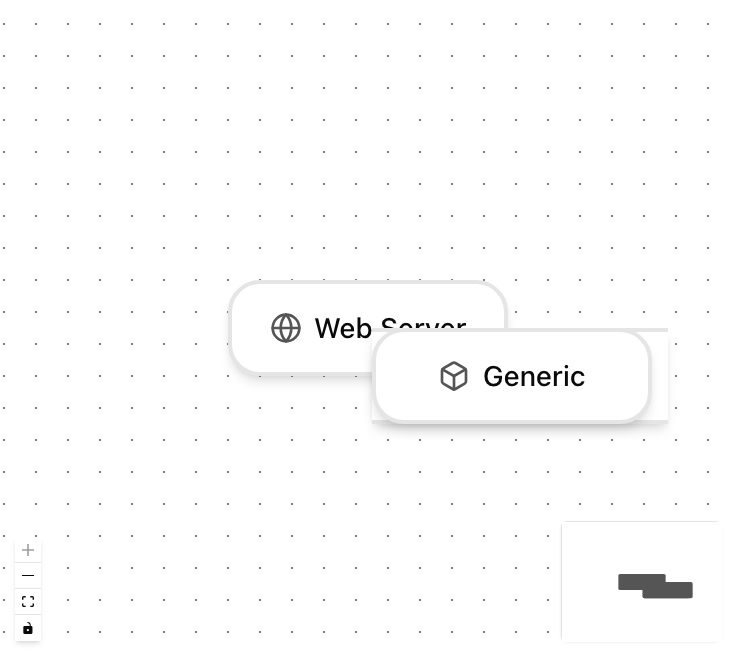
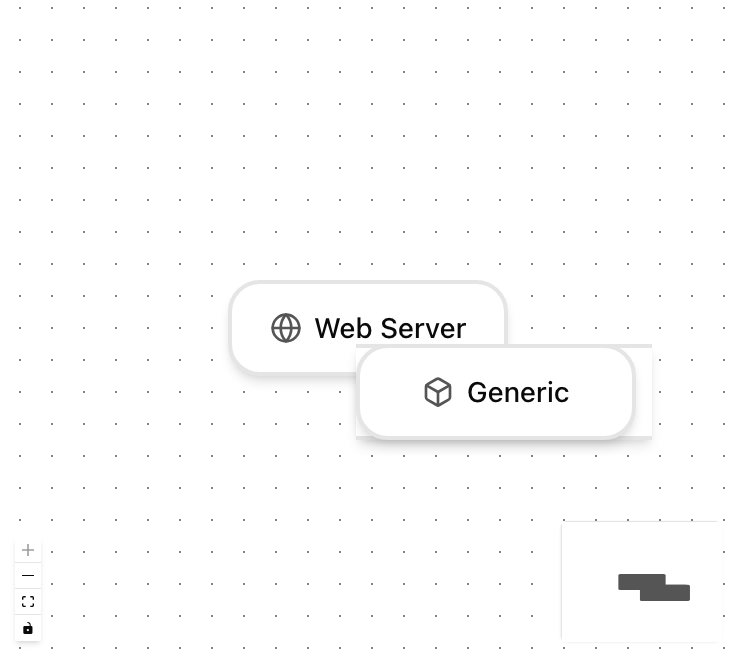
fix(e2e): close the canvas and onboarding races in the shared test helpers (#136)
* fix(e2e): close the canvas and onboarding races in the shared test helpers

The Canvas Elements specs (and every other caller of the shared add-element helper)
timed out non-deterministically at e2e/fixtures.ts under a saturated runner. Two
independent readiness races caused it; both are closed here with state-based waits,
not longer sleeps.

1. Canvas mount race. createModel returned as soon as the component palette was
   visible, but the palette lives in the sidebar and paints before the lazy-loaded
   DfdCanvas chunk mounts. Measured: in 12 of 12 runs the ReactFlow pane count was 0
   at the instant createModel returned, with a 289-787ms gap before readiness. Every
   addPaletteItem call was therefore double-clicking a mid-mount surface, where
   getCanvasCenter falls back to a constant {200,200} because .react-flow is absent.
   createModel and addPaletteItem now gate on .react-flow__pane, which @user/react
   renders as soon as ReactFlow initializes and before any node exists.

2. Onboarding guide race. The fixture seeds threatforge-last-seen-version to suppress
   the What's New overlay, but use-onboarding-triggers reads that same key as proof no
   modal is up and therefore enables the welcome guide; dfd-basics then auto-starts on
   an 800ms timer after first model creation. Both render a full-viewport guide-overlay
   that intercepts pointer events. The suite was passing only by out-racing that timer,
[…]

Changed region(s): [[0.4688, 0.4878, 0.9062, 0.7012], [0.875, 0.8841, 0.9688, 0.9146]]

diff --git a/e2e/fixtures.ts b/e2e/fixtures.ts
@@ -13,33 +13,97 @@ export async function dismissWhatsNew(page: Page) {
 	}
 }
 
+/**
+ * Wait until the ReactFlow surface is mounted and interactive.
+ *
+ * The canvas is lazy-loaded behind a Suspense boundary, so the palette (which lives in the
+ * sidebar) paints well before the canvas chunk mounts. Any interaction that adds an element
+ * needs the canvas itself, not just the palette. `.react-flow__pane` is rendered by
+ * @xyflow/react as soon as ReactFlow initializes and before any node exists, which makes it
+ * the correct pre-first-add readiness anchor. Idempotent: a no-op once the pane is visible.
+ */
+export async function waitForCanvasReady(page: Page) {
+	await page.locator(".react-flow__pane").waitFor({ state: "visible" });
+}
+
 /** Click the "New Model" button from the empty canvas state and wait for the canvas to load */
 export async function createModel(page: Page) {
 	await page.getByTestId("btn-empty-new").click();
 	await page.getByTestId("component-palette").waitFor({ state: "visible" });
+	await waitForCanvasReady(page);
 }
 
 /** Double-click a palette item to add it to the canvas and wait for the node count to increase */
 export async function addPaletteItem(page: Page, testId: string) {
+	// Defense in depth: any caller reaching here without going through createModel is still safe.
+	await waitForCanvasReady(page);
 	const nodesBefore = await page.locator("[data-testid^='node-']").count();
 	const item = page.getByTestId(testId);
 	await item.waitFor({ state: "visible" });
 	await item.dblclick();
-	// Wait until ReactFlow renders the new node
-	await expect(page.locator("[data-testid^='node-']")).toHaveCount(nodesBefore + 1);
+	// Wait until ReactFlow renders the new node. The readiness gate above removes the mount
+	// race; this bounded per-assertion timeout (#111) only absorbs residual React-commit
+	// latency on a CPU-saturated runner. Deliberately local — the issue forbids raising the
+	// global expect timeout, and a node that is never added still fails here.
+	await expect(page.locator("[data-testid^='node-']")).toHaveCount(nodesBefore + 1, {
+		timeout: 15000,
+	});
 }
 
 /**
- * Custom test fixture that automatically seeds localStorage to suppress
- * the What's New overlay on every test. This prevents the overlay from
- * blocking clicks in any test that navigates to "/".
+ * The guides that have auto-start triggers, and can therefore block a test.
+ *
+ * `use-onboarding-triggers.ts:42,63` computes `alreadySeen` from `completedGuideIds` /
+ * `dismissedGuideIds` and skips scheduling the timer at all, so seeding an id here suppresses
+ * that guide regardless of its `showOnce` value. (`showOnce` gates `startGuide`, which governs
+ * only *manual* starts from the guide picker — it is not part of auto-start suppression.) Add
+ * any new auto-start guide id here; nothing else is required.
+ *
+ * `stride-analysis` and `ai-assistant` have no auto-start trigger and are deliberately absent.
  */
+const AUTO_START_GUIDE_IDS = ["welcome", "dfd-basics"];
+
+/**
+ * Suppress both first-run interstitials before the page loads.
+ *
+ * Two distinct overlays block interaction, and both must be suppressed (#111):
+ *
+ * 1. The What's New overlay, keyed on `threatforge-last-seen-version` (must equal
+ *    CURRENT_VERSION exactly).
+ * 2. The onboarding guides, which render a full-viewport `guide-overlay` that intercepts
+ *    pointer events, plus a `guide-tooltip` that steals focus.
+ *
+ *    The blocker actually observed here is `dfd-basics`, which auto-starts 800ms after the
+ *    first model is created. Specs previously passed only by racing ahead of that timer, which
+ *    made every add-element spec timing-dependent — the exact non-determinism #111 exists to
+ *    remove. Measured against the pre-fix seeding: after `New Model`, `guide-overlay` is
+ *    present and `palette-item-generic.dblclick()` times out.
+ *
+ *    `welcome` (500ms after mount) is seeded too, but is inert in this environment: `main.tsx`
+ *    enables StrictMode, whose double-invoked effect cancels the 500ms timer while the
+ *    `firstLaunchChecked` ref prevents rescheduling. It is suppressed anyway because that is a
+ *    dev-only accident, not a guarantee — a production-like build would fire it, since seeding
+ *    the What's New key makes `isWhatsNewVisible()` return false and thereby *enables* it.
+ *
+ * This does remove E2E coverage of guide auto-start, and that behavior is not covered by unit
+ * tests either: `guide-overlay.test.tsx` tests only the presentational component, and
+ * `use-onboarding-triggers.test.ts` calls `startGuide` directly rather than rendering the hook.
+ * The timers and `isWhatsNewVisible()` are untested in both lanes. Tracked in #141.
+ */
+export async function suppressFirstRunOverlays(page: Page) {
+	await page.addInitScript((guideIds: string[]) => {
+		localStorage.setItem("threatforge-last-seen-version", "1.0.0");
+		localStorage.setItem(
+			"threatforge-onboarding",
+			JSON.stringify({ completedGuideIds: [], dismissedGuideIds: guideIds }),
+		);
+	}, AUTO_START_GUIDE_IDS);
+}
+
+/** Test fixture that applies {@link suppressFirstRunOverlays} to every page before it loads. */
 export const test = base.extend({
 	page: async ({ page }, use) => {
-		// Seed localStorage before the page loads so the What's New overlay doesn't appear
-		await page.addInitScript(() => {
-			localStorage.setItem("threatforge-last-seen-version", "1.0.0");
-		});
+		await suppressFirstRunOverlays(page);
 		await use(page);
 	},
 });

diff --git a/e2e/screenshot-templates.spec.ts b/e2e/screenshot-templates.spec.ts
@@ -3,6 +3,7 @@
  * Usage: npx playwright test e2e/screenshot-templates.spec.ts
  */
 import { test } from "@playwright/test";
+import { suppressFirstRunOverlays } from "./fixtures";
 
 const TEMPLATES = [
 	"ecommerce-platform",
@@ -13,26 +14,12 @@ const TEMPLATES = [
 	"healthcare-system",
 ];
 
-/** Suppress all onboarding dialogs by pre-setting localStorage */
-async function suppressOnboarding(page: import("@playwright/test").Page) {
-	await page.addInitScript(() => {
-		// Mark What's New as seen — must match CURRENT_VERSION exactly ("1.0.0")
-		localStorage.setItem("threatforge-last-seen-version", "1.0.0");
-		// Mark all onboarding guides as completed (flat format, not Zustand persist)
-		localStorage.setItem(
-			"threatforge-onboarding",
-			JSON.stringify({
-				completedGuideIds: [
-					"welcome",
-					"dfd-basics",
-					"stride-analysis",
-					"ai-assistant",
-				],
-				dismissedGuideIds: [],
-			}),
-		);
-	});
-}
+/**
+ * Suppress all first-run overlays. Shared with the fixture in ./fixtures so the guide-id list
+ * has a single home; this spec imports `test` from @playwright/test directly (it is a
+ * screenshot utility, not a fixture-based spec), so it must call the helper explicitly.
+ */
+const suppressOnboarding = suppressFirstRunOverlays;
 
 test("screenshot empty state", async ({ page }) => {
 	await suppressOnboarding(page);

diff --git a/e2e/canvas-visual.spec.ts b/e2e/canvas-visual.spec.ts
@@ -1,8 +1,11 @@
 import { type Page } from "@playwright/test";
-import { addPaletteItem, createModel, expect, test } from "./fixtures";
+import { addPaletteItem, createModel, expect, test, waitForCanvasReady } from "./fixtures";
 
 /** Add a trust boundary from the palette (doesn't use node-* testid like elements) */
 async function addTrustBoundary(page: Page) {
+	// Same readiness gate as addPaletteItem: this helper also double-clicks the palette, so it
+	// must not run against a mid-mount canvas (#111).
+	await waitForCanvasReady(page);
 	const item = page.getByTestId("palette-item-trust-boundary");
 	await item.waitFor({ state: "visible" });
 	await item.dblclick();

diff --git a/docs/plans/111-ci-reliability.md b/docs/plans/111-ci-reliability.md
@@ -430,4 +430,10 @@ Append changes; do not rewrite prior decisions.
 
 | Date | Change | Evidence and reason |
 |------|--------|---------------------|
+| 2026-07-21 | Steps 3–5 split out into `#138` (flaky visibility), `#139` (macOS auto-rerun), `#140` (runbook); steps 1–2 ship alone in `#136` | Step 4 adds a workflow holding `actions: write` whose end-to-end behavior can only be validated on live Actions. Bundling it would hold the E2E unblock — which `#93` is gated on — behind an owner-validation cycle. Each follow-up carries this plan's detail, including the rejected alternatives and the discriminating no-rerun cases. |
+| 2026-07-21 | A **second** readiness race was found during implementation and is fixed in `#136` | The plan diagnosed only the canvas mount race. The observed blocker is `dfd-basics`, which auto-starts 800ms after first model creation and renders a full-viewport `guide-overlay` intercepting pointer events; probed against the pre-fix seeding, `palette-item-generic.dblclick()` times out. The suite was passing only by out-racing that timer, which a saturated runner defeats — so this is plausibly a real contributor to the CI flake. Closing the canvas race (which legitimately spends ~300ms) exposed it. Correction from preflight review: an earlier revision of this row also blamed the `welcome` guide. `welcome` is in fact inert in the E2E environment — `main.tsx` enables StrictMode, whose double-invoked effect clears the 500ms timer while the `firstLaunchChecked` ref prevents rescheduling (probed 3/3: no tooltip or overlay after 1500ms idle). It is still seeded, because that is a dev-only accident rather than a guarantee, and seeding the What's New key does make `isWhatsNewVisible()` return false and thereby enable it in a production-like build. The dev/prod divergence is filed as `#142`. |
+| 2026-07-21 | Auto-start suppression works at the trigger hook, not through `showOnce` | Second correction from preflight review. `use-onboarding-triggers.ts:42,63` computes `alreadySeen` from `completedGuideIds`/`dismissedGuideIds` and skips scheduling the timer entirely; `startGuide`'s `showOnce` guard governs only manual starts from the guide picker. An intermediate revision of `e2e/fixtures.ts` told maintainers to "confirm the guide is `showOnce: true`", which was both wrong and hazardous — it could push someone to change a product flag to make E2E pass. |
+| 2026-07-21 | Canvas race quantified rather than inferred; `.react-flow__pane` confirmed as the anchor, fallback not needed | A throwaway probe measured pane count `0` in 12 of 12 runs at the instant the old `createModel` returned, with a 289–787ms gap. The plan's sanctioned `data-testid="dfd-canvas"` fallback was therefore unnecessary. |
+| 2026-07-21 | Two macOS visual baselines regenerated | They had captured the racy placement: with a ready canvas, `getCanvasCenter` returns a true projection instead of its `{200,200}` fallback, so second-and-later nodes land differently. New output is byte-identical across three runs; three of five baselines are unchanged. These specs are skipped on CI (`canvas-visual.spec.ts:45`), so this is local signal only. |
+| 2026-07-21 | Auto-start suppression is a real coverage gap, not covered by unit tests | Preflight review corrected an earlier claim that `guide-overlay.test.tsx` retains the coverage. It tests only the presentational component, and `use-onboarding-triggers.test.ts` calls `startGuide` directly rather than rendering the hook, so the 500ms/800ms timers and `isWhatsNewVisible()` are untested in both lanes. Filed as `#141` — a plan row alone would be the Markdown-only backlog `AGENTS.md` forbids. |
 | 2026-07-21 | Initial plan | Issue #111 body and comment; `.github/workflows/ci.yml` (matrix build, SHA-pinned `uses:` steps, e2e job); `e2e/fixtures.ts` (`createModel`/`addPaletteItem`), `e2e/canvas-elements.spec.ts`, `keyboard-shortcuts.spec.ts`, `dirty-state.spec.ts`, `canvas-visual.spec.ts`, `screenshot-templates.spec.ts`; `src/components/canvas/canvas.tsx` (lazy `DfdCanvas`/`Suspense`), `dfd-canvas.tsx`, `component-palette.tsx` (`getCanvasCenter` fallback), `dfd-element-node.tsx` (`node-{id}` testid); `playwright.config.ts` (retries/workers/reporters); `package.json` (`@xyflow/react ^12.10.1`); standards from `#68` (visible quarantine) and `#52` (SHA-pin, least privilege); `docs/runbooks/` style and `docs/plans/0000-template.md` |